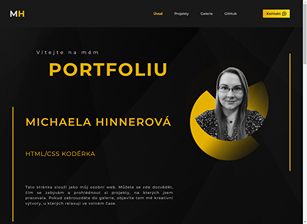
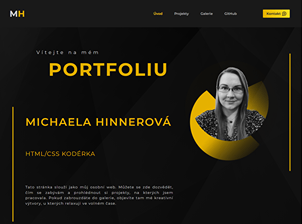
Optimalizace obrazku

diff --git a/projects.html b/projects.html
@@ -11,7 +11,7 @@ title: Projekty
         <div class="projects__box">
             <h3 class="projects__subtitle">Osobní portfolio</h3>
 
-            <div class="projects__scroll-img projects__scroll-img--img1"><img class="projects__img" src="/images/portfolio_screen1_mobile.png" alt="Obrázek náhledu tohoto webu"></div>
+            <div class="projects__scroll-img projects__scroll-img--img1"><img class="projects__img" src="/images/portfolio_screen1_mobile.webp" alt="Obrázek náhledu tohoto webu"></div>
 
             <p class="projects__text project__text--first">Mým prvním projektem je mé osobní portfolio, tedy web, na kterém se právě nacházíte.</p>
             <p class="projects__text project__text--second">V projektu jsem využila: <br>Grid, flexbox, BEM, SCSS, verzování v gitu, responzivní design, proměnné, mixiny, media query, mobile-first design, eleventy, Netlify a návrh jsem vytvořila ve Figmě.</p>

diff --git a/scss/_projects.scss b/scss/_projects.scss
@@ -32,6 +32,7 @@
 
     &__img {
         width: 100%;
+        height: auto;
         border-radius: 2px;
     }
 
@@ -136,9 +137,11 @@
             transition: ease-in-out 6s;
             
             &--img1 {
-                background-image: url("../images/portfolio_screen1.png");
+                background-image: url("../images/portfolio_screen1.webp");
                 background-size: cover;
                 border-radius: 2px;
+                width: 100%;
+                height: auto;
             }
 
             &:hover {

diff --git a/scss/_mixins.scss b/scss/_mixins.scss
@@ -46,7 +46,8 @@
 }
 
 @mixin section-img {
-    max-width: 90%;
+    width: 90%;
+    height: auto;
     border: 7px solid #f6c41f;
     border-radius: 2px;
     opacity: 90%;
